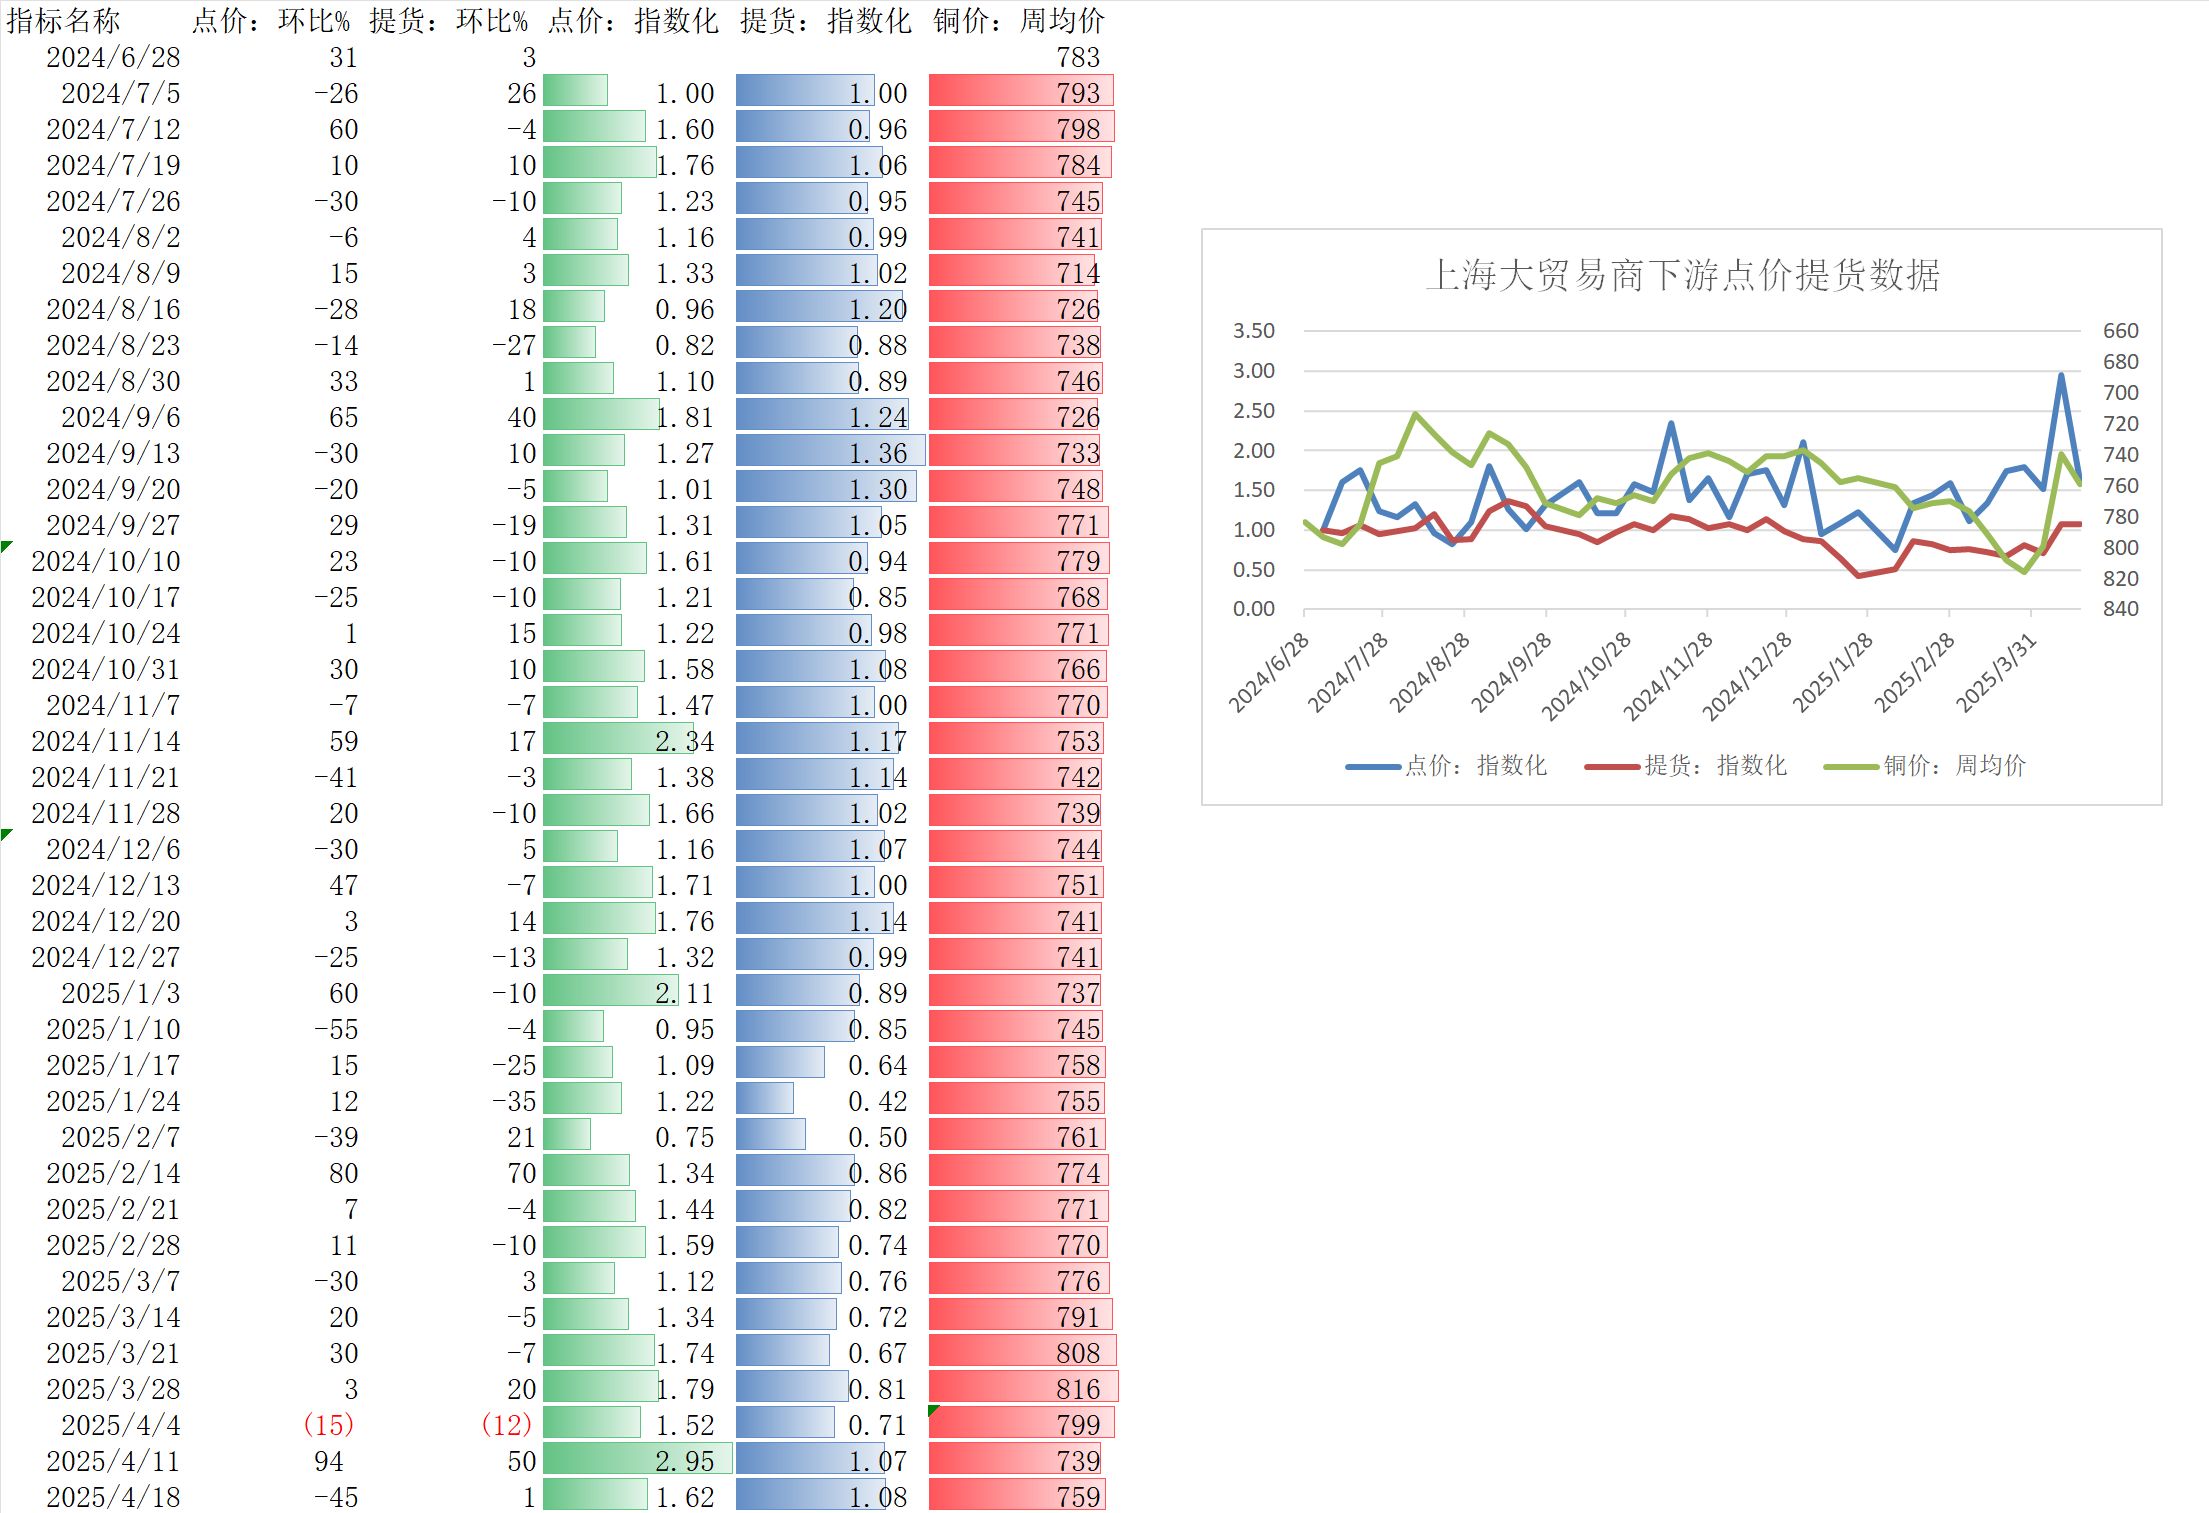
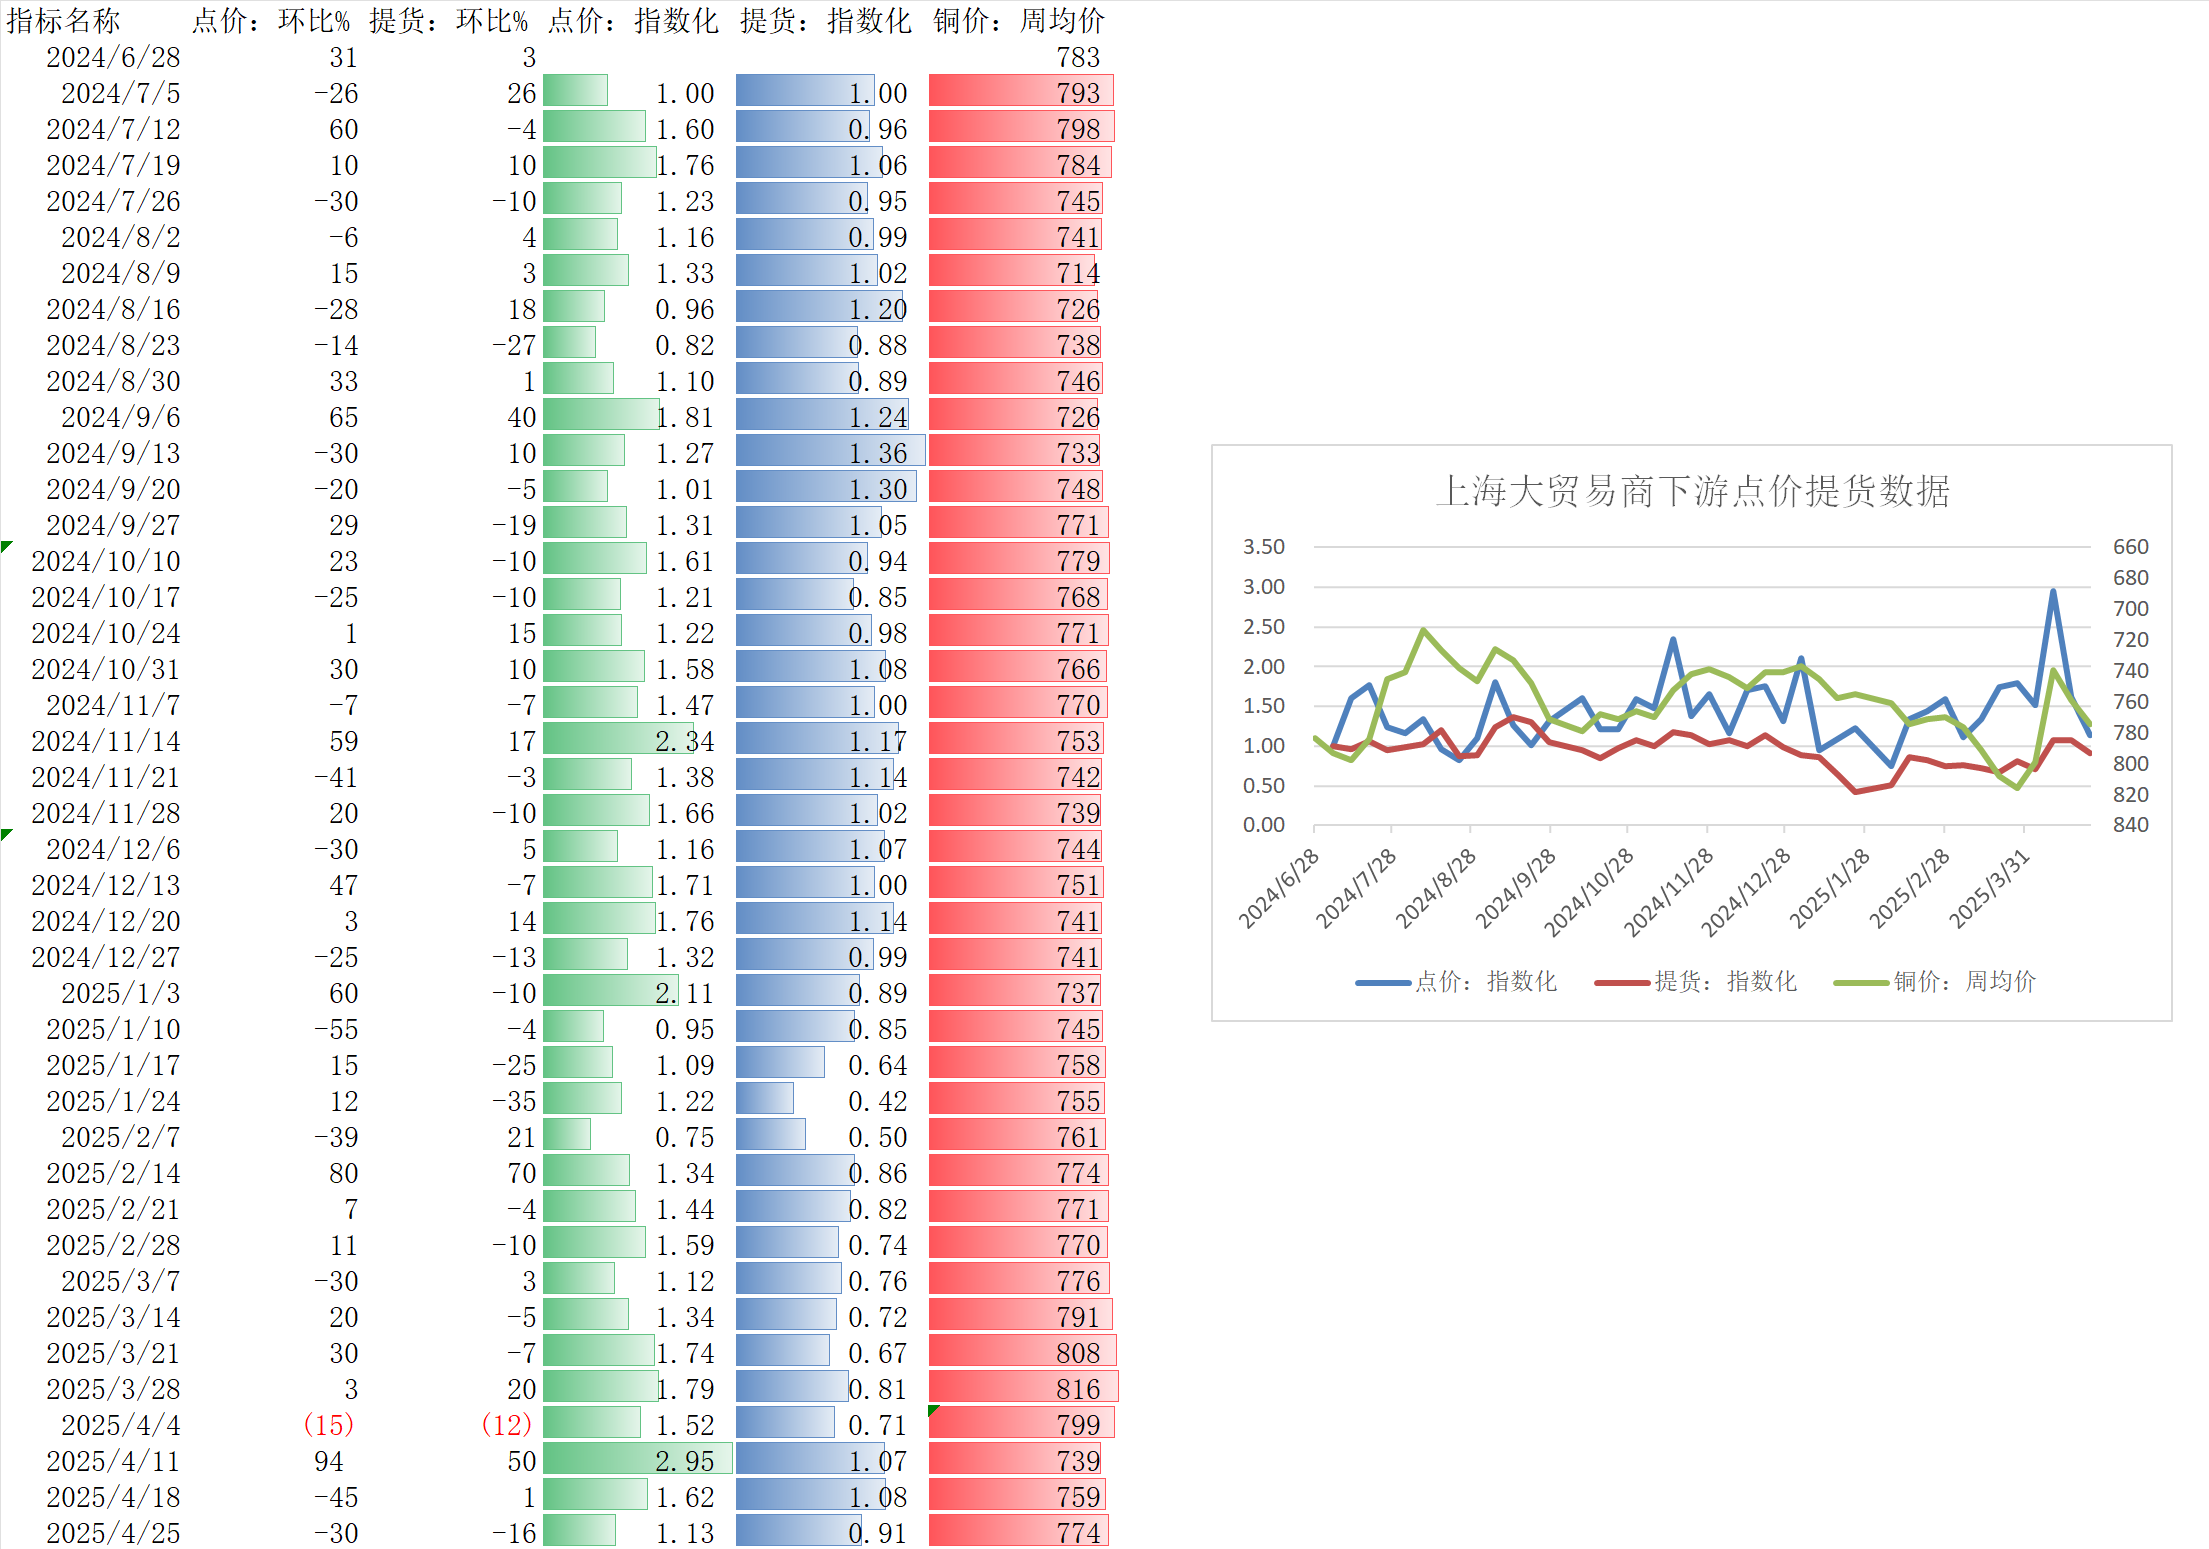
yfwu-main 2025-4-27:21:20:12

diff --git a/铜市场分析20250420.md b/铜市场分析20250420.md
@@ -1,7 +1,7 @@
 详细图表更新： https://yingfengwu-cn.github.io/qztz/
 
--<font size = 4> 策略推荐：单边观望，做多lc价差600美金以下。<font color = red>铜价本周窄幅震荡，**中国区周度去库连续第二周超过3w达到旺季水平，调研口径周度提货1.08处于高位区间，从点价看周度点价环比-45%回落到正常偏高水平，主要因为下跌后终端订单强劲，同时国内反向开票要求补税，用废企业短期收废积极性严重下滑。**</font>考虑到经济预期不稳，五月后消费有下滑预期，短期尽量回避抄底做反弹，观望为主，预计5月国内去库5w以内。</font>
-- <font size = 4>周度主要变化简要：<font color = red>本周数据整体偏利多，中国区当周去库延续季节性高位+电缆开工率环比上调+废铜杆开工下调。</font>本周CMX-LME走强200至1400附近，<font color = red>**cmx连续第四周交仓，6k交仓，lme库存-10k**</font>。
+-<font size = 4> 策略推荐：单边观望，做多lc价差600美金以下。<font color = red>铜价本周窄幅震荡，**中国区周度去库连续第二周超过3w达到旺季水平，调研口径周度提货-16%至0.91处于正常区间，从点价看周度点价环比-30%回落到正常偏高水平，推测去库主要受废铜扰动因素。**</font>考虑到经济预期不稳，五月后消费有下滑预期，短期尽量回避抄底做反弹，观望为主，预计5月国内去库5w以内。</font>
+- <font size = 4>周度主要变化简要：<font color = red>本周数据整体偏利多，中国区当周去库延续季节性高位+电缆开工率环比上调+废铜杆开工提升缓慢。</font>本周CMX-LME走强200至1400附近，<font color = red>**cmx连续第四周交仓，6k交仓，lme库存-10k**</font>。
 - **1. 精炼端：本周库存去化延续之前提货速度，近端现货基差随着库存去化亦走强200左右，LME曲线结构亦走强。**
 - - 库存：<font color = red>节后第七周中国区库存环比-5.5w，为近年单周最大降幅。LME库存-10k；CMX库存+6k</font>。
 - - 精铜杆开工：<font color = red>开工率环比+1.5%至79.6%。</font>
@@ -32,7 +32,7 @@
 全球库存走势较年初预期大幅不及预期，主要因为中国铜消费不及预期，**最大拖累项在国内基建地产和铝代铜**，海外消费正常兑现增量但是大部分国家表现仍然受到了高铜价抑制。
 **当前中国区库存周度去库幅度足以证明九月消费连续第三个月正增长，九月至今去库快，因此阶段性减轻了库存压力。**11月消费水平接近9月，铜管和铜杆均有环比回升，除了旧换新政策支撑外，抢出口也带来了订单前置；供应端进口量11月也提前到达了高位，整体国内年底迎来了供需双旺，2025年国内消费增速大概率高于去年（去年均价高，产业链有所去库），今年拖累板块（地产基建）降幅将收窄，且光伏板块降速后铝代铜替代拖累也将有所走强，家电换新补贴加码；**海外电网AI投资主体坚实，美国消费好+欧洲国防预算提高。目前海外主要铜矿山企业产量指引有所下调，增速由24年80w下调到55w且中资企业超产潜力已经释放，长期供应增速低主线坚实。**预计2025年全球累库18w左右，相较之前市场预期累库30w改善。**
 - 
-- **短期逻辑（年内）：**<font color = red>**节奏上看目前铜价大幅回落后下游积极抄底，但是新订单仍有担忧，且LME和CMX开始出现到港交仓，短期不追高**。</font>
+- **短期逻辑（年内）：**<font color = red>**节奏上看目前铜短期不做空**。</font>
 - **中期逻辑（2025）：**逢低做多9000美金以下。
 
 <div STYLE="page-break-after: always;"></div>
